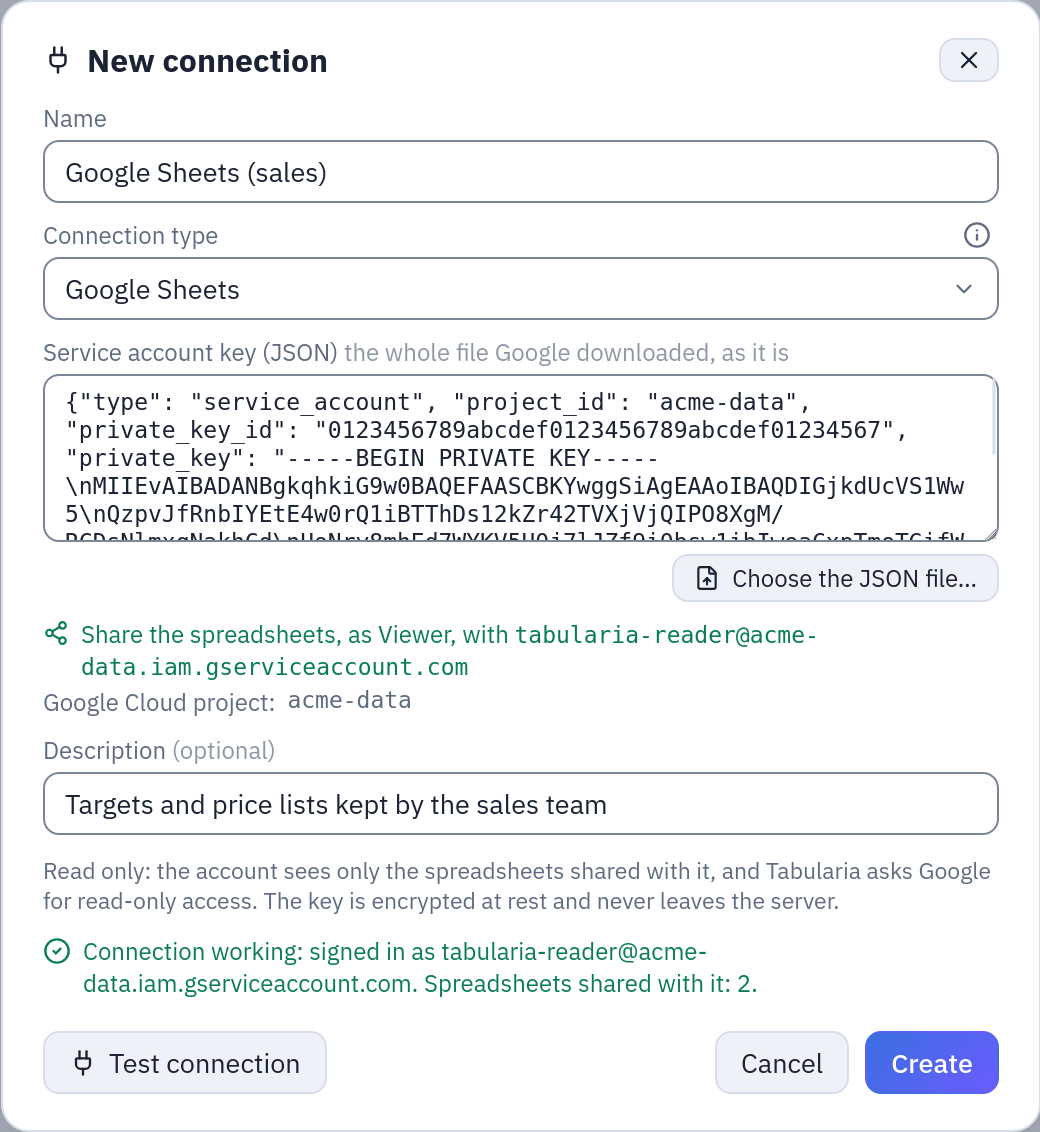
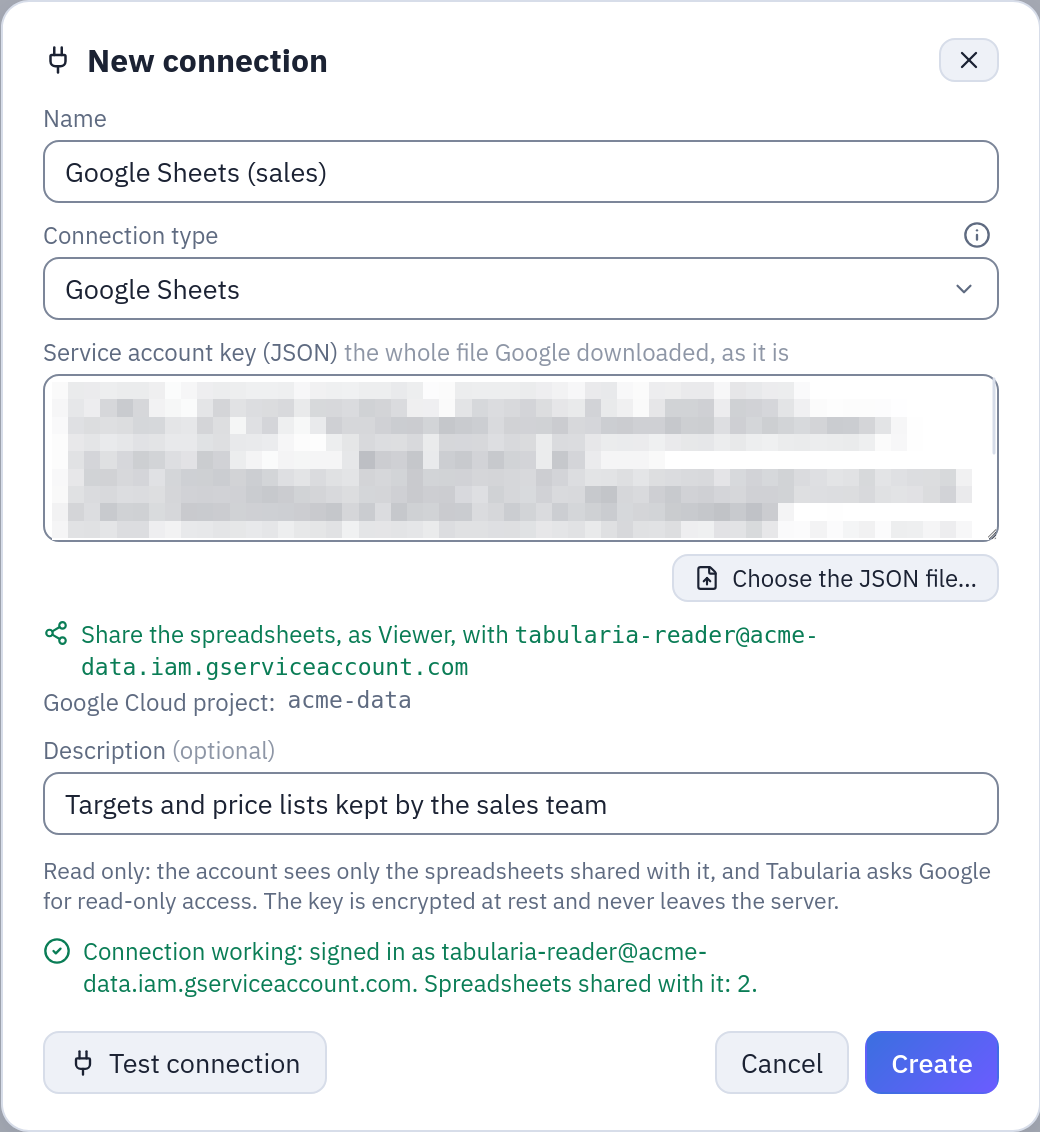
docs(sheets): blur the service account key in the connection screenshot
The key in the picture was a throwaway one, generated for the test
double of Google and tied to no account, but a readable private key on
a public page reads as a leak and trips secret scanners.

Changed region(s): [[0.0615, 0.3401, 0.9231, 0.4947]]

diff --git a/docs/sources/google-sheets.md b/docs/sources/google-sheets.md
@@ -57,7 +57,7 @@ with** and the account's email, and the Google Cloud project. Both are read from
 when it is saved, and the Connections page lists the connection under that email: a
 connection is one account.
 
-![The New connection dialog with type Google Sheets: the JSON key pasted, the account's email to share the spreadsheets with, the project, and the result of the test](../media/guide/connections/google-sheets-connection.png)
+![The New connection dialog with type Google Sheets: the JSON key pasted (blurred here), the account's email to share the spreadsheets with, the project, and the result of the test](../media/guide/connections/google-sheets-connection.png)
 
 *A Google Sheets connection with a made-up key: the email to share the spreadsheets with, and a working test.*
 
